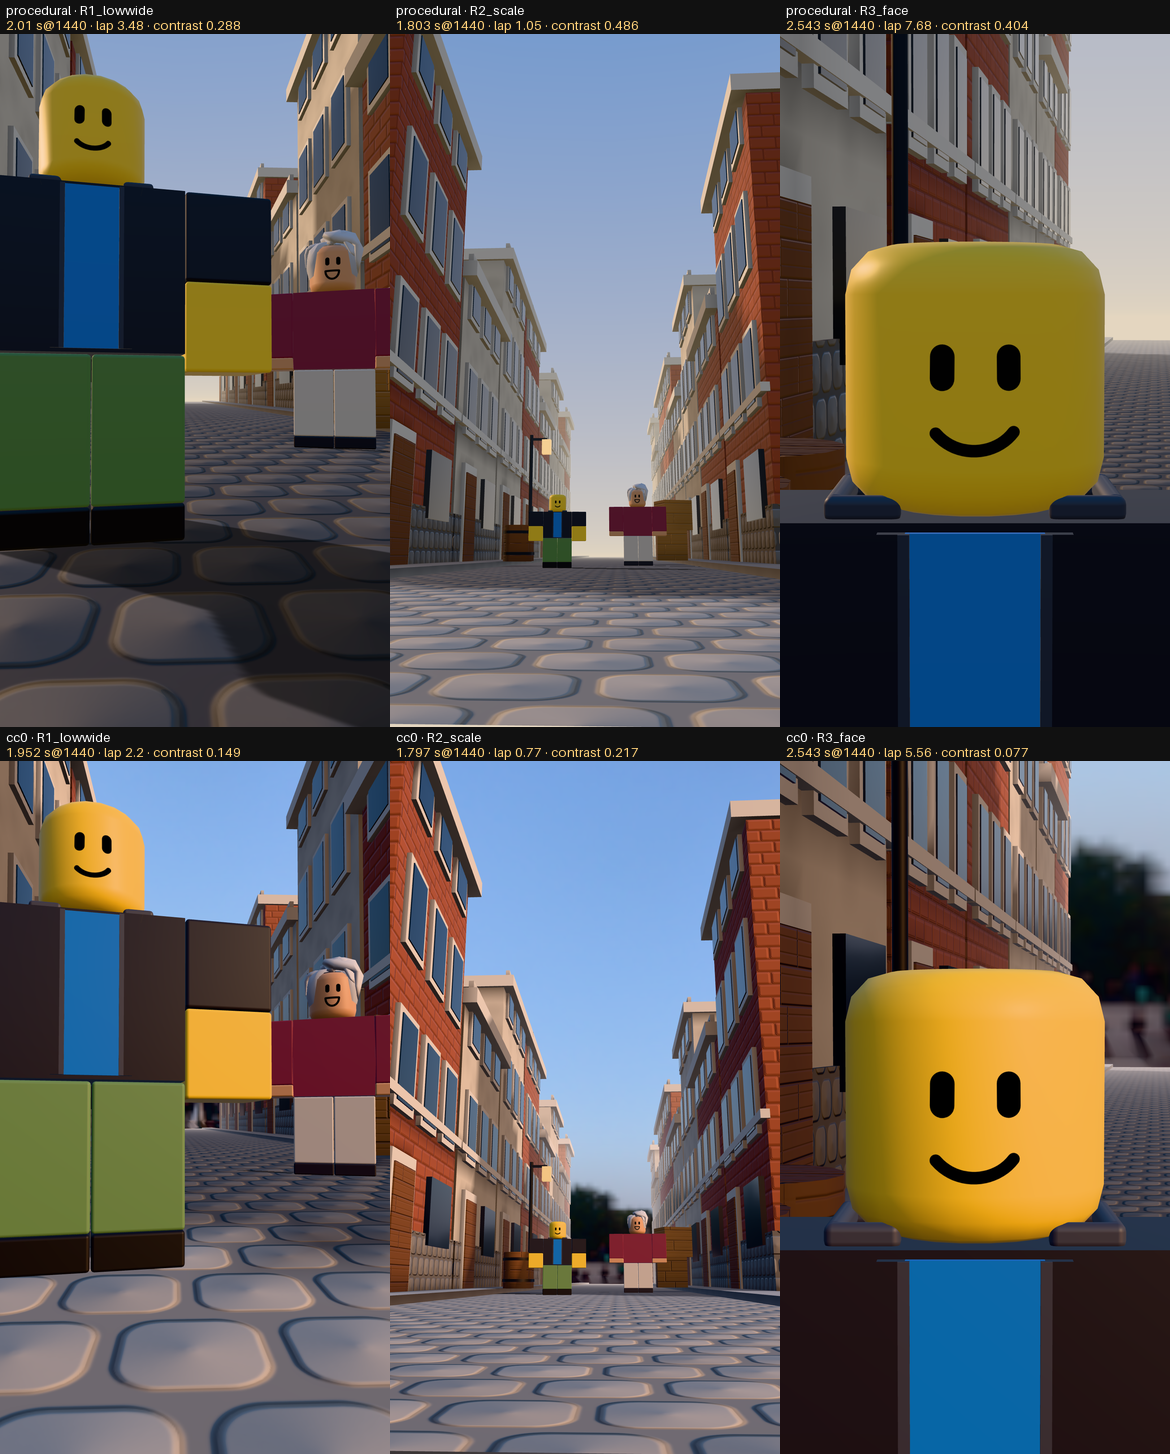
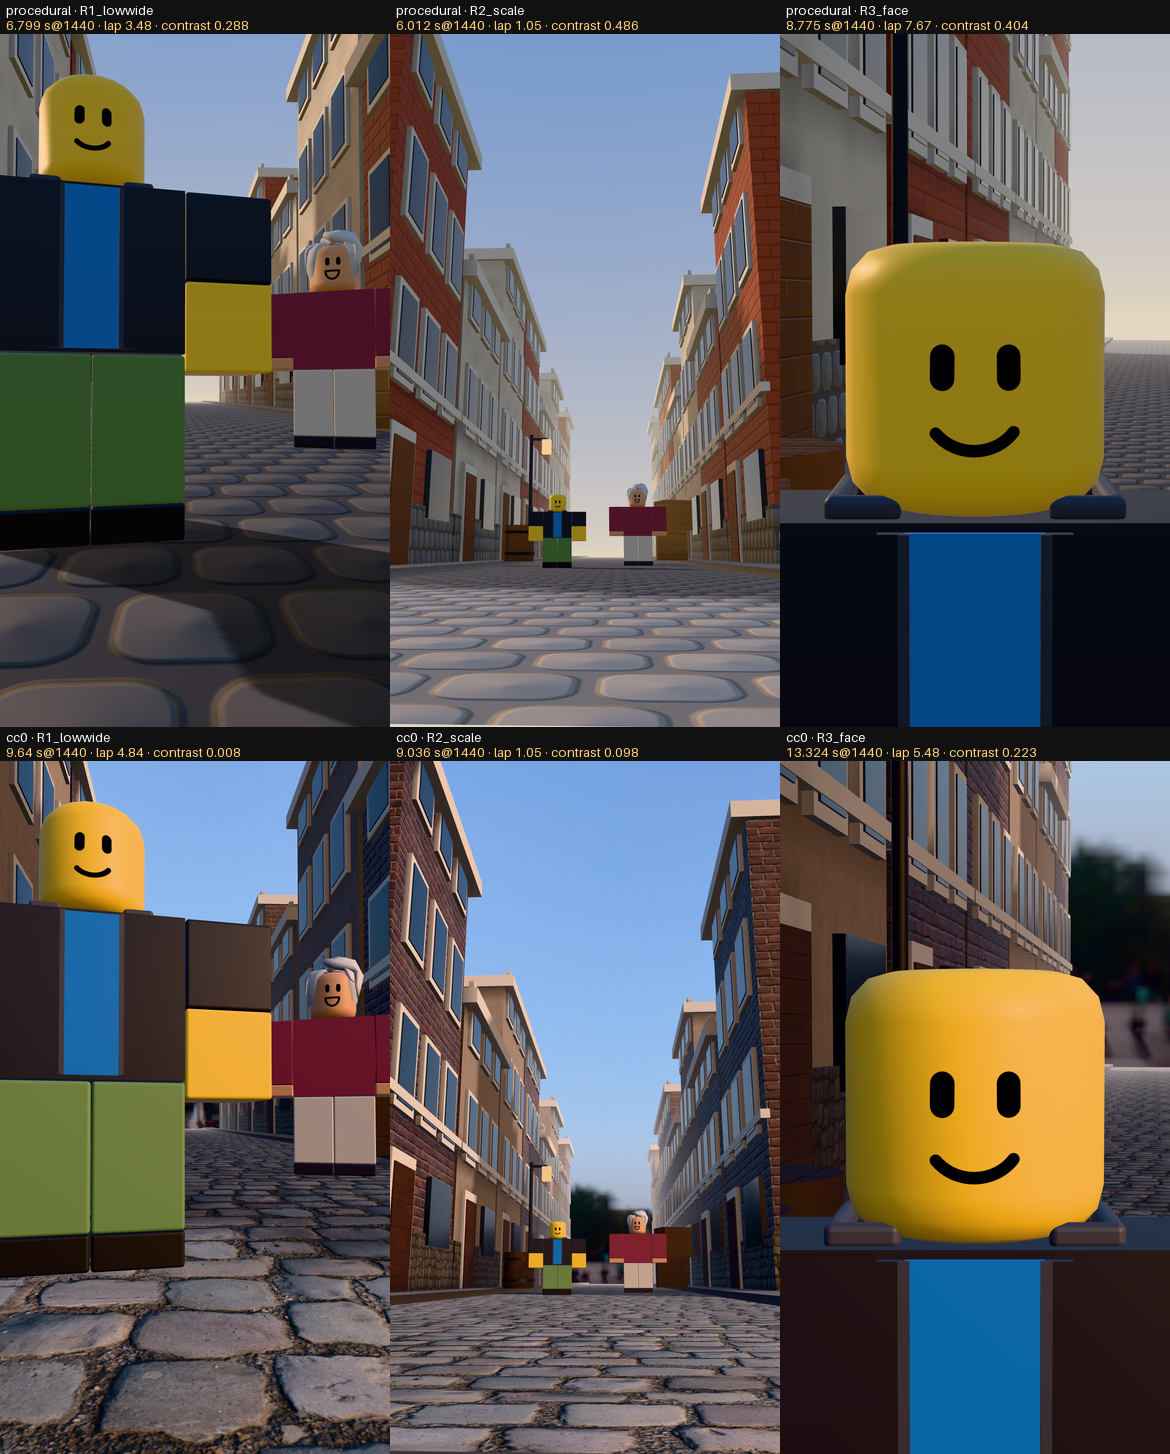
Phase R: farm realism numbers + sheet (run 44428216688)

diff --git a/assets/LICENSES.md b/assets/LICENSES.md
@@ -1,17 +1,12 @@
 # Third-party assets (Phase R realism spike)
 
 All assets below are from Poly Haven and are **CC0 1.0** (public domain, https://polyhaven.com/license).
-They are downloaded by the farm job `.github/workflows/assets.yml` (`scripts/v2/fetch-assets.py`, list in
-`assets/realism.json`) into `renders/cache/assets/` (gitignored cache) and never committed. The farm run rewrites
-this file with the asset ids it resolved.
+They are downloaded by the farm job `.github/workflows/assets.yml` into a cache and never committed.
 
-| slot | asset | kind | source |
-|---|---|---|---|
-| street_late | Venice Sunset (`venice_sunset`), 1k .hdr | hdri | https://polyhaven.com/a/venice_sunset |
-| cobblestone | first existing of cobblestone_floor_08 / _04 / _01 / cobblestone_square, else top "cobblestone" | texture | https://polyhaven.com/textures |
-| brick | red_brick_03 / brick_wall_10 / red_brick / brick_wall_02, else top "brick" | texture | https://polyhaven.com/textures |
-| planks | wood_planks / wood_planks_grey / old_planks_02 / weathered_planks, else top "planks" | texture | https://polyhaven.com/textures |
-| plaster | painted_plaster_wall / white_plaster_02 / beige_wall_001 / plastered_wall, else top "plaster" | texture | https://polyhaven.com/textures |
-
-Local session note: api.polyhaven.com and dl.polyhaven.org are refused by this session's network proxy (403). The local
-HDRI copy came from the three.js examples mirror of the same Poly Haven file (examples/textures/equirectangular/venice_sunset_1k.hdr).
+| slot | asset | kind | bytes (1k) | source |
+|---|---|---|---|---|
+| cobblestone | Cobblestone Floor 08 (`cobblestone_floor_08`) | texture | 2236210 | https://polyhaven.com/a/cobblestone_floor_08 |
+| brick | Red Brick 03 (`red_brick_03`) | texture | 2336566 | https://polyhaven.com/a/red_brick_03 |
+| planks | Wood Planks (`wood_planks`) | texture | 1913211 | https://polyhaven.com/a/wood_planks |
+| plaster | Painted Plaster Wall (`painted_plaster_wall`) | texture | 2497755 | https://polyhaven.com/a/painted_plaster_wall |
+| street_late | Venice Sunset (`venice_sunset`) | hdri | 1440400 | https://polyhaven.com/a/venice_sunset |
